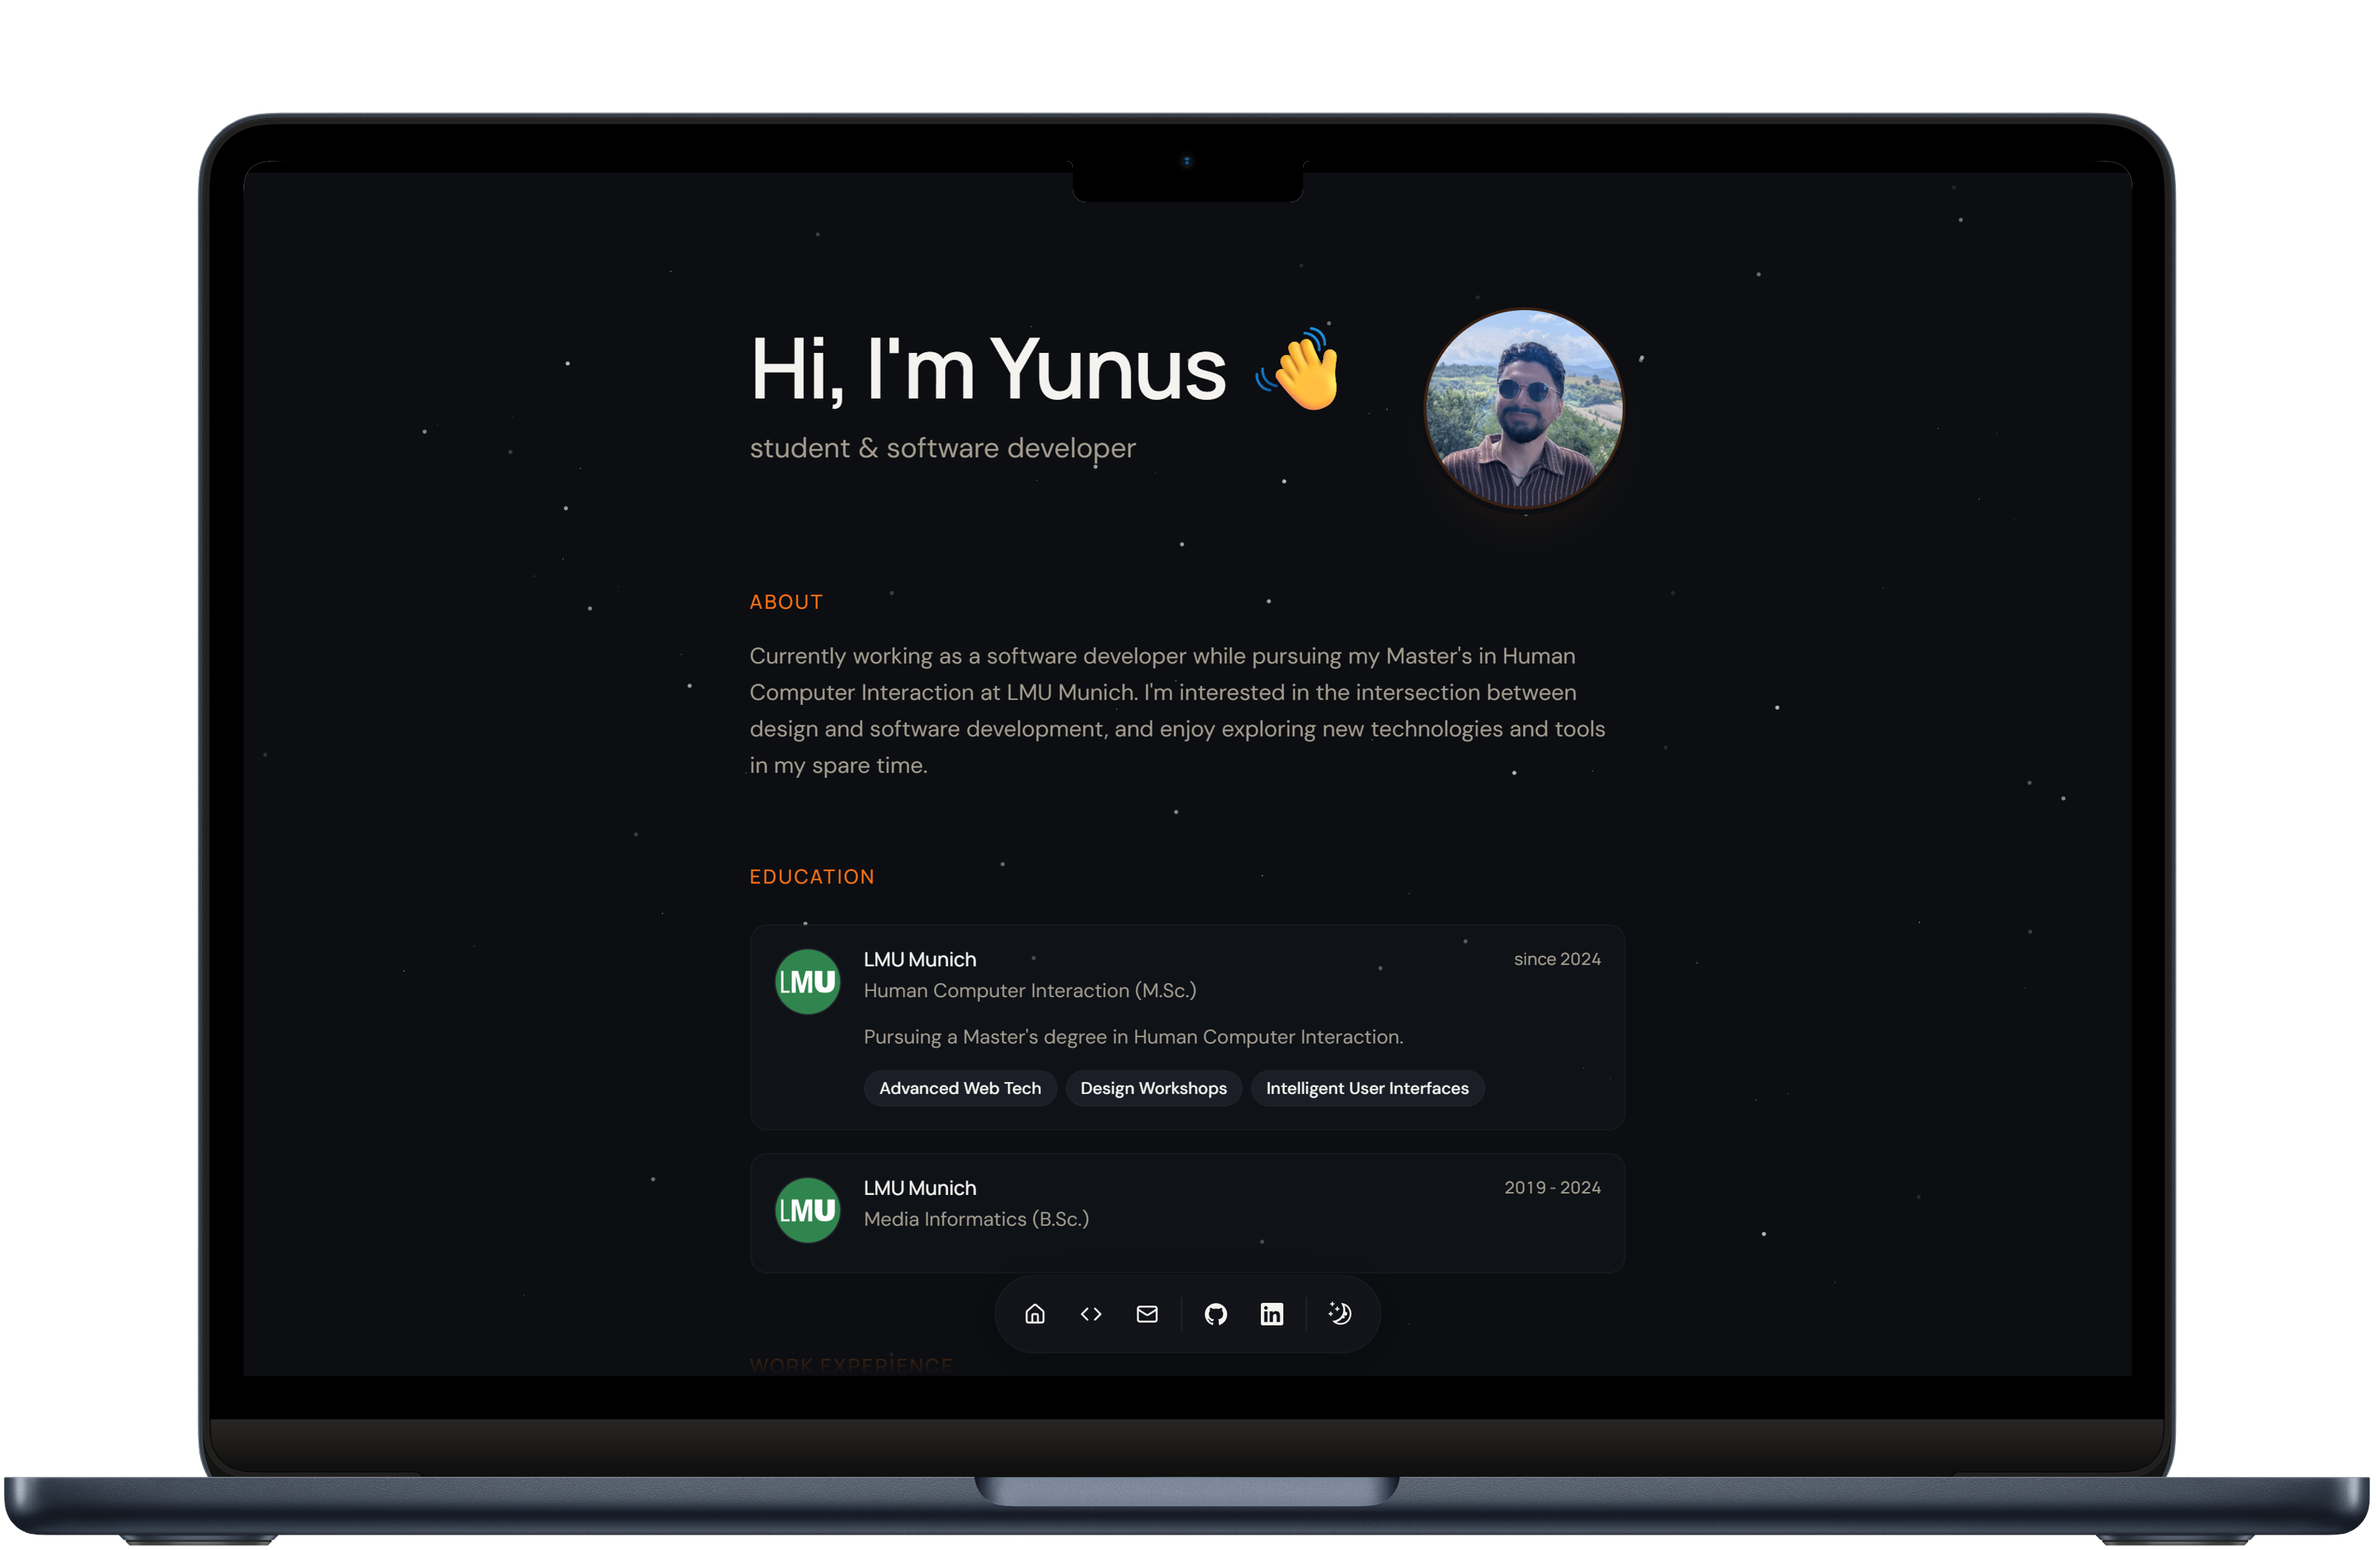
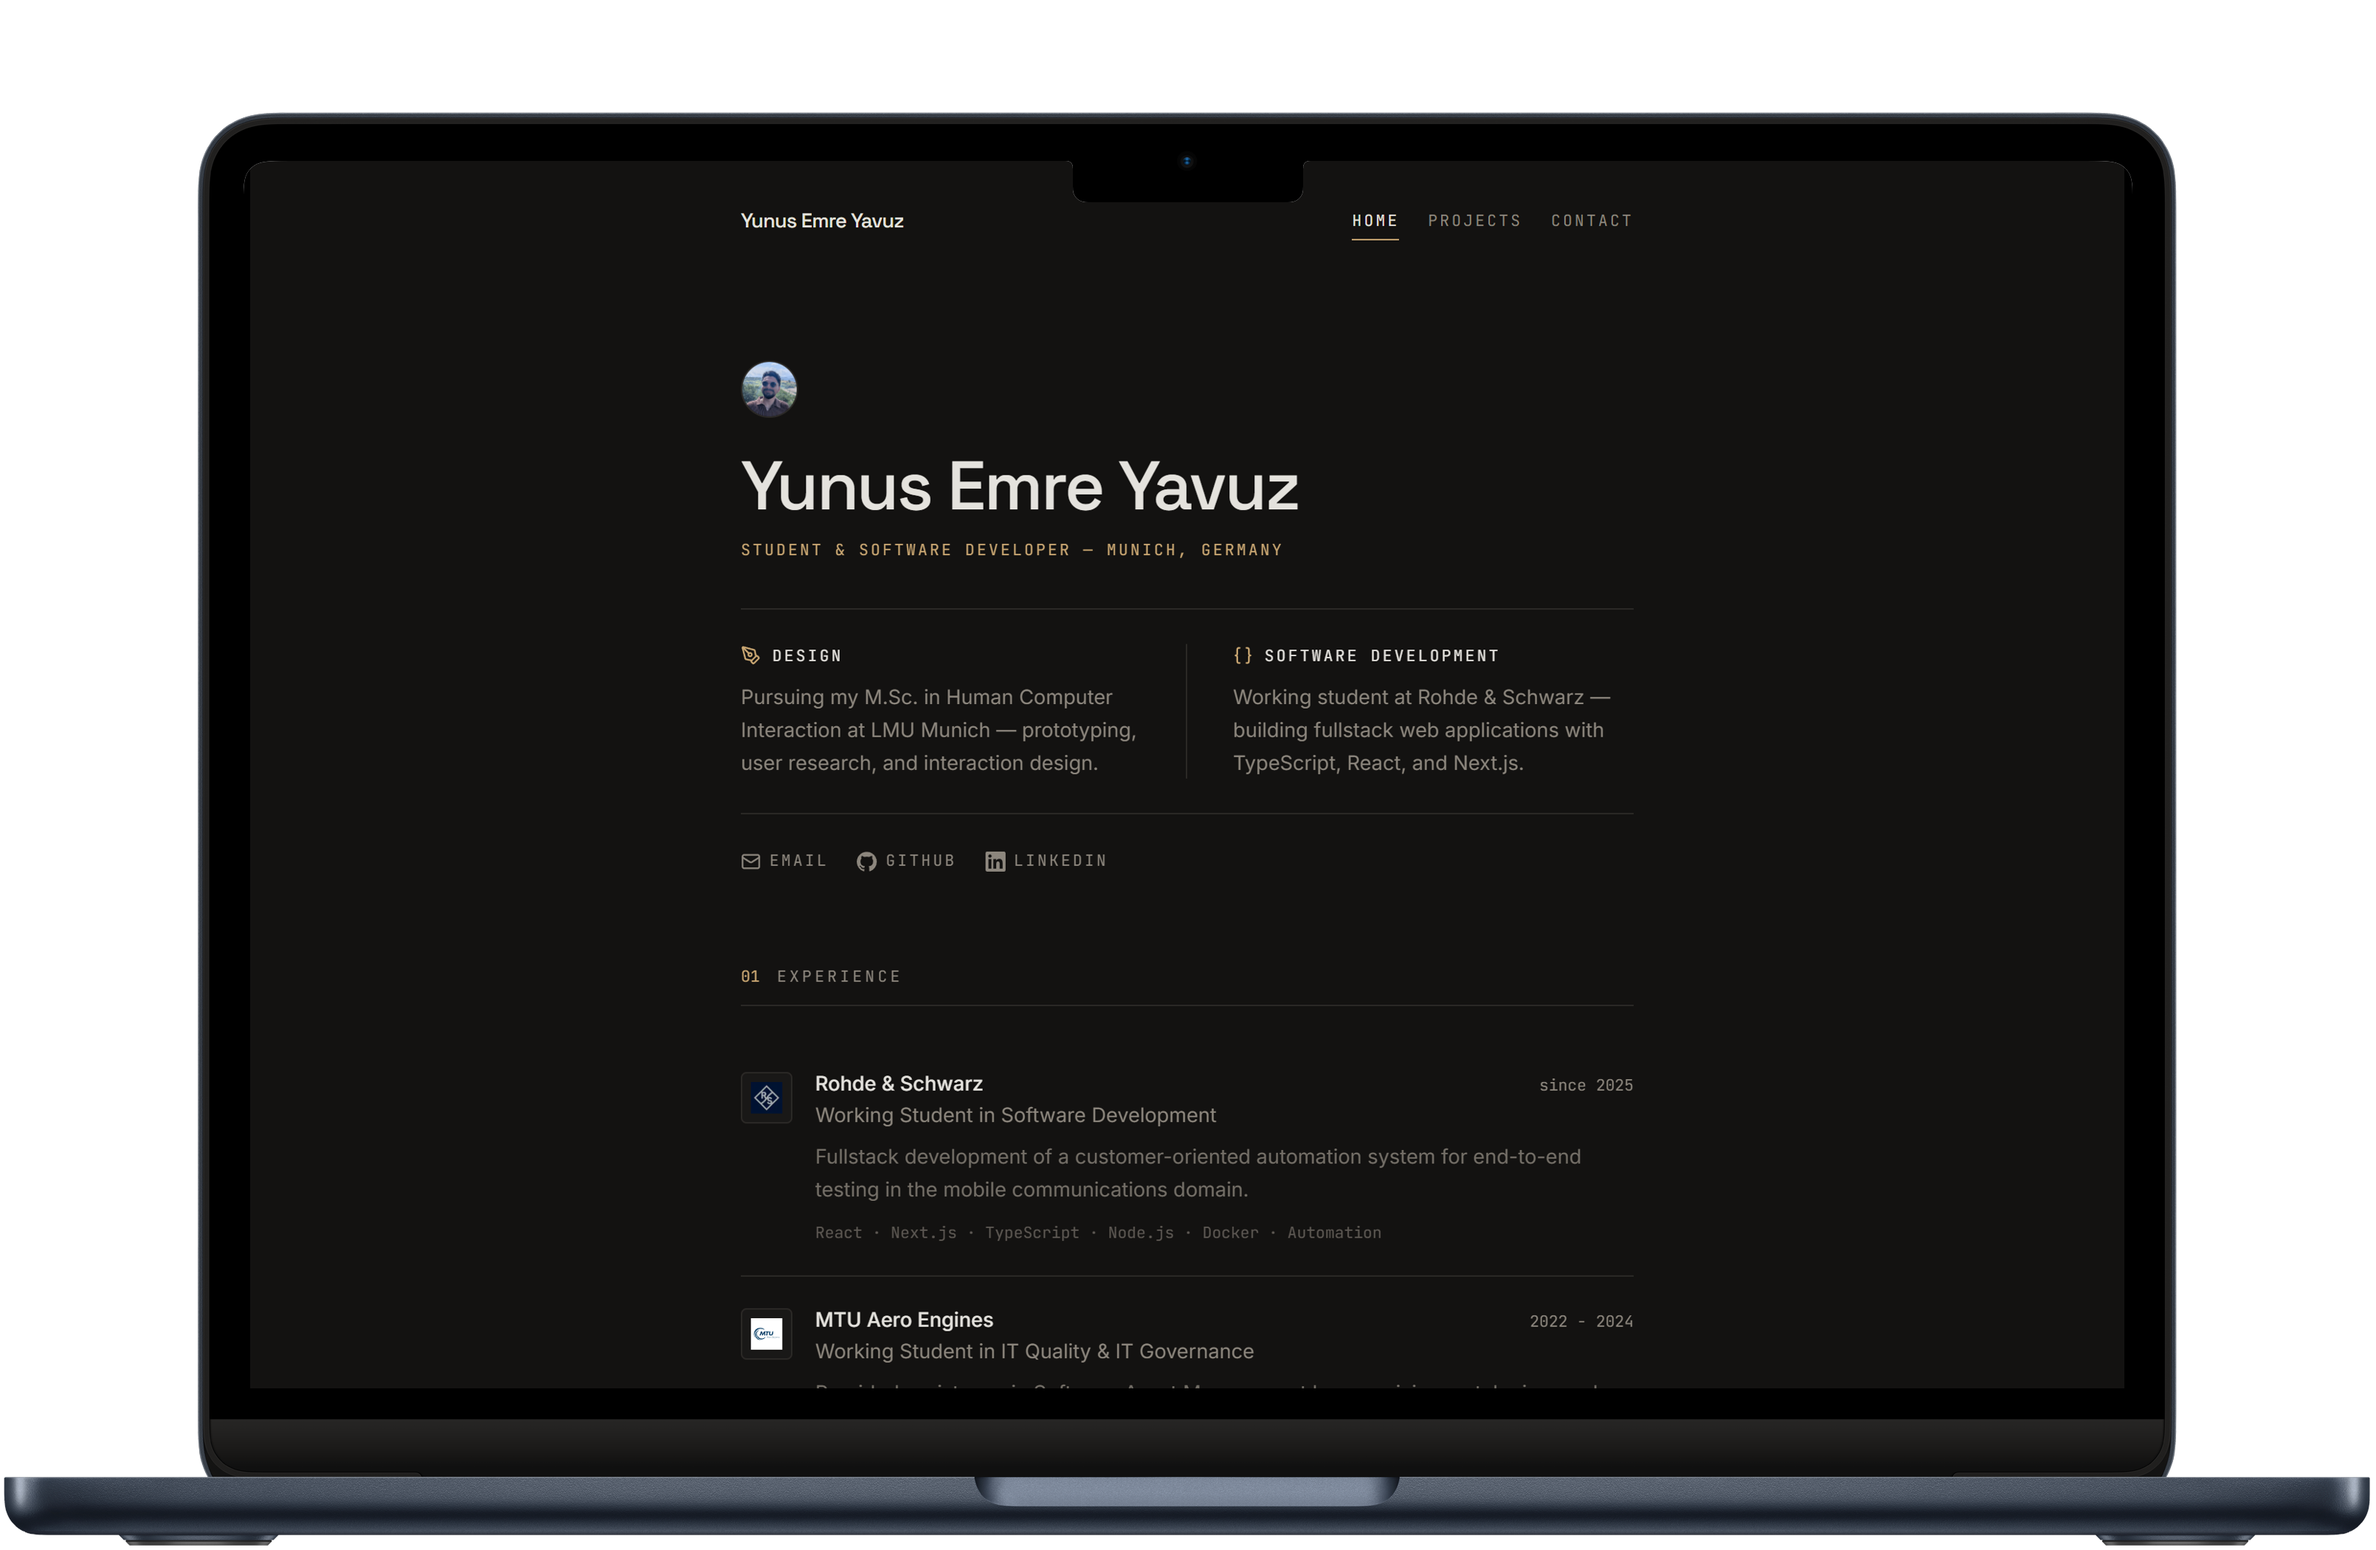
update README + preview

diff --git a/README.md b/README.md
@@ -1,63 +1,48 @@
 <div align="center">
-<img alt="Portfolio" src="/public/preview.png" width="90%">
+<img alt="Portfolio" src="public/preview.png" width="90%">
 </div>
 
-# 🌟 Portfolio
+# Portfolio
 
-🚀 Built with [Next.js](https://nextjs.org/) and self-hosted on [Hetzner](www.hetzner.com) + [Coolify](https://coolify.io/).
+Personal portfolio and resume site — live at [yuemya.de](https://yuemya.de). Built with [Next.js](https://nextjs.org/) and self-hosted.
 
-💡 Based on an awesome template by [dillionverma](https://github.com/dillionverma).
+## Features
 
-## 🚀 Getting Started Locally
+- **Resume-style home page** — experience, education, and skills rendered from a single config file, with a one-click CV download
+- **On-demand LaTeX CV generation** — the [`/api/generate-cv`](app/api/generate-cv/route.ts) route compiles the LaTeX sources in `data/cv/` with [tectonic](https://tectonic-typesetting.github.io/).
+- **Projects page** — searchable, filterable showcase split into *design* and *engineering* disciplines, plus a collection of lab notes/experiments
+- **Project detail pages** — static generation with hero images and image galleries
 
-1. Clone this repository to your local machine:
+## Tech Stack
+
+- [Next.js](https://nextjs.org/) 16 + [React](https://react.dev/) 19 + [TypeScript](https://www.typescriptlang.org/) + [Tailwind CSS](https://tailwindcss.com/)
+- [tectonic](https://tectonic-typesetting.github.io/) for LaTeX CV compilation
+- [Docker](https://www.docker.com/) multi-stage build, deployed with [Coolify](https://coolify.io/)
+
+
+## Getting Started Locally
+
+1. Clone this repository:
 
    ```bash
    git clone https://github.com/yunuseyvz/portfolio
-   ```
-
-2. Move to the cloned directory
-
-   ```bash
    cd portfolio
    ```
 
-3. Install dependencies:
+2. Install dependencies:
 
    ```bash
    npm install
    ```
 
-4. Set up environment variables:
-
-   Create a `.env` file in the root directory with the following variables:
-
-   ```
-   # Database connection
-   DATABASE_URL
-
-   # Blob storage for images
-   BLOB_READ_WRITE_TOKEN
-
-   # Authentication
-   NEXTAUTH_SECRET
-   NEXTAUTH_URL
-   ADMIN_EMAIL
-   ```
-
-5. Start the local Server:
+3. Start the dev server:
 
    ```bash
    npm run dev
    ```
 
-6. Open the [Config file](./src/data/resume.tsx) and make changes
+4. Open [data/resume.tsx](./data/resume.tsx) and make changes — the site is fully driven by the data files in [`data/`](./data/).
 
-## 🔮 Future Plans
-
-- Make the portfolio data fully dynamic, including resume data (currently in the config file)
-- Additional admin panel features for managing all content
-
-## 📄 License
+## License
 
 Licensed under the [MIT license](./LICENSE).
